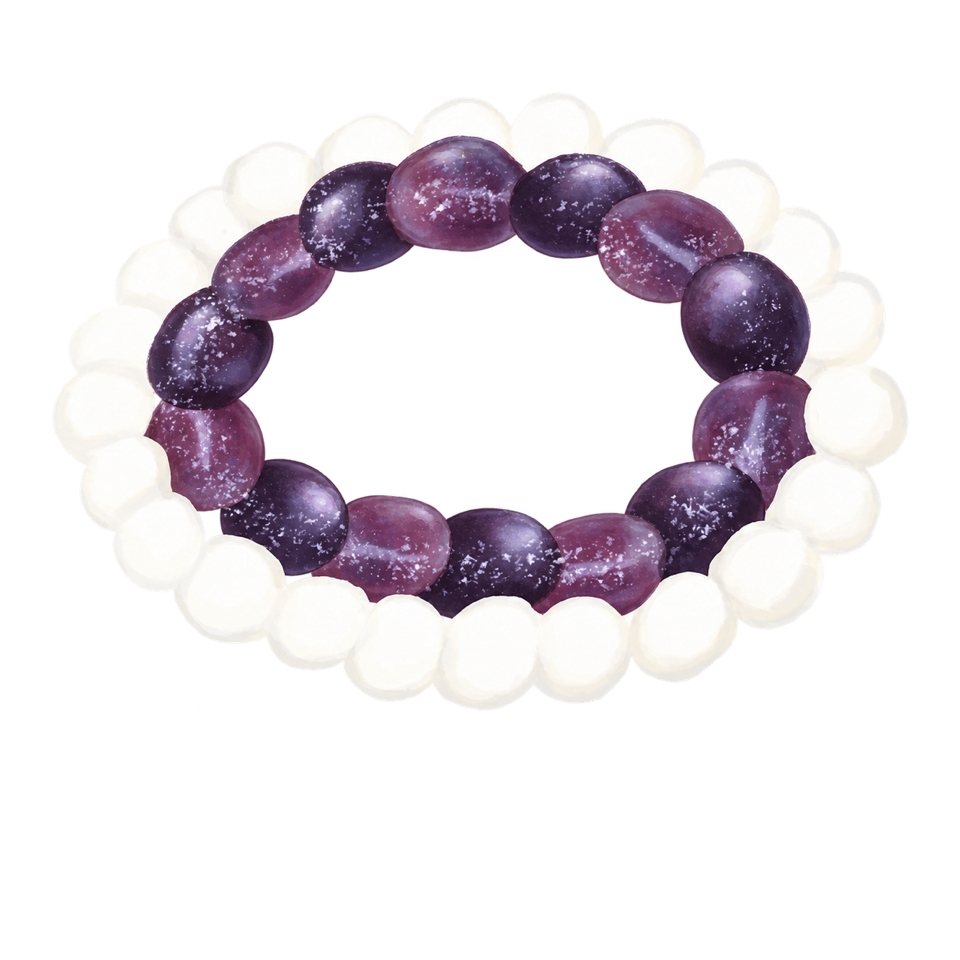
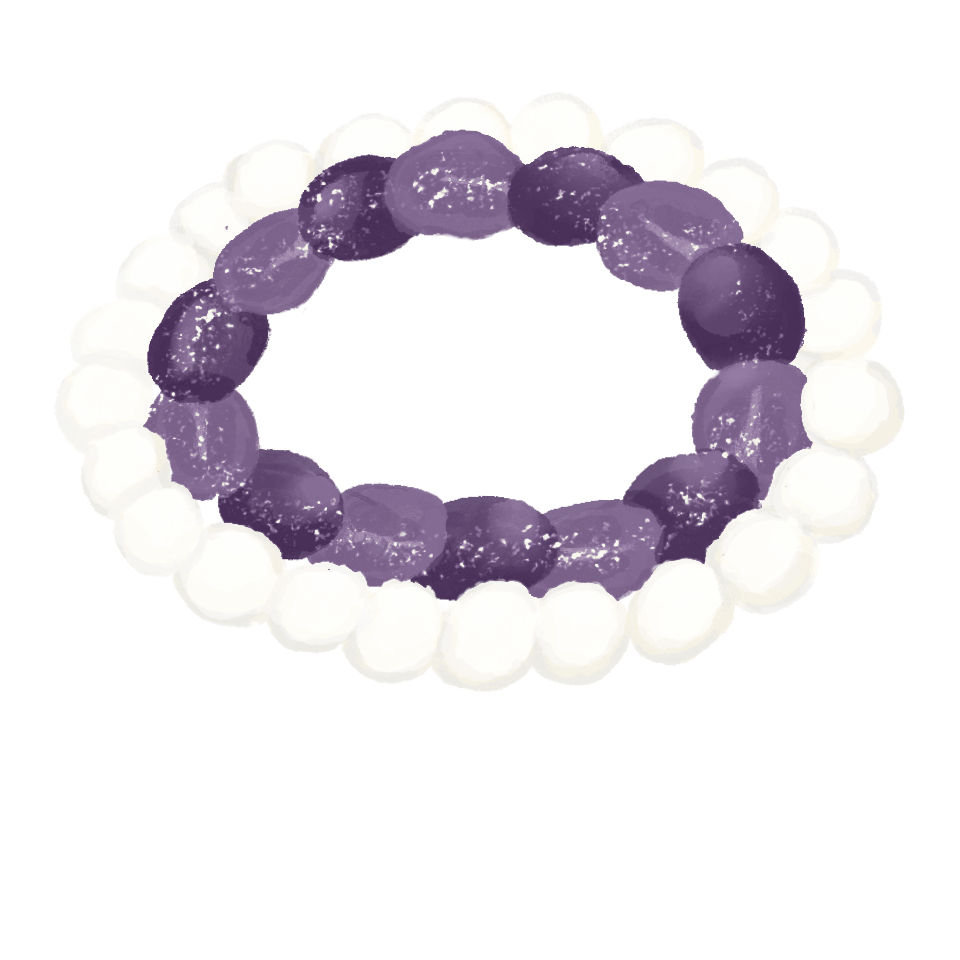
Use recolored Muscat artwork for Nagano Purple

diff --git a/app.js b/app.js
@@ -946,6 +946,12 @@ function pastelHueName(hue) {
 function loadImg(url) {
   url = safeImageUrl(url);
   if (!url) return Promise.resolve(null);
+  // 公開済みの同名PNGは長くキャッシュされるため、描き直さず色だけ替えた版を読み直す。
+  if (CONFIG.shop === "pokke" && layerFileName(url).endsWith("-kyoho.png")) {
+    const freshUrl = new URL(url, location.href);
+    freshUrl.searchParams.set("v", "20260930-color-only");
+    url = freshUrl.href;
+  }
   if (imgCache.has(url)) return imgCache.get(url);
   const p = new Promise((resolve) => {
     const img = new Image();

diff --git a/reserve/index.html b/reserve/index.html
@@ -171,7 +171,7 @@ if (bookingParams.has("shop") && !["preview", "staff", "trial", "edit"].some(key
 <script src="booking-window.js?v=1790754142"></script>
 <script src="question-flow.js?v=1790754142"></script>
 <script src="crop.js?v=1790754142"></script>
-  <script src="app.js?v=1790754142"></script>
+  <script src="app.js?v=1790769699"></script>
 <script src="form-layout.js?v=1790754142"></script>
 </body>
 </html>

diff --git a/index.html b/index.html
@@ -158,7 +158,7 @@
 <script src="booking-window.js?v=1790754142"></script>
 <script src="question-flow.js?v=1790754142"></script>
 <script src="crop.js?v=1790754142"></script>
-  <script src="app.js?v=1790754142"></script>
+  <script src="app.js?v=1790769699"></script>
 <script src="form-layout.js?v=1790754142"></script>
 </body>
 </html>
